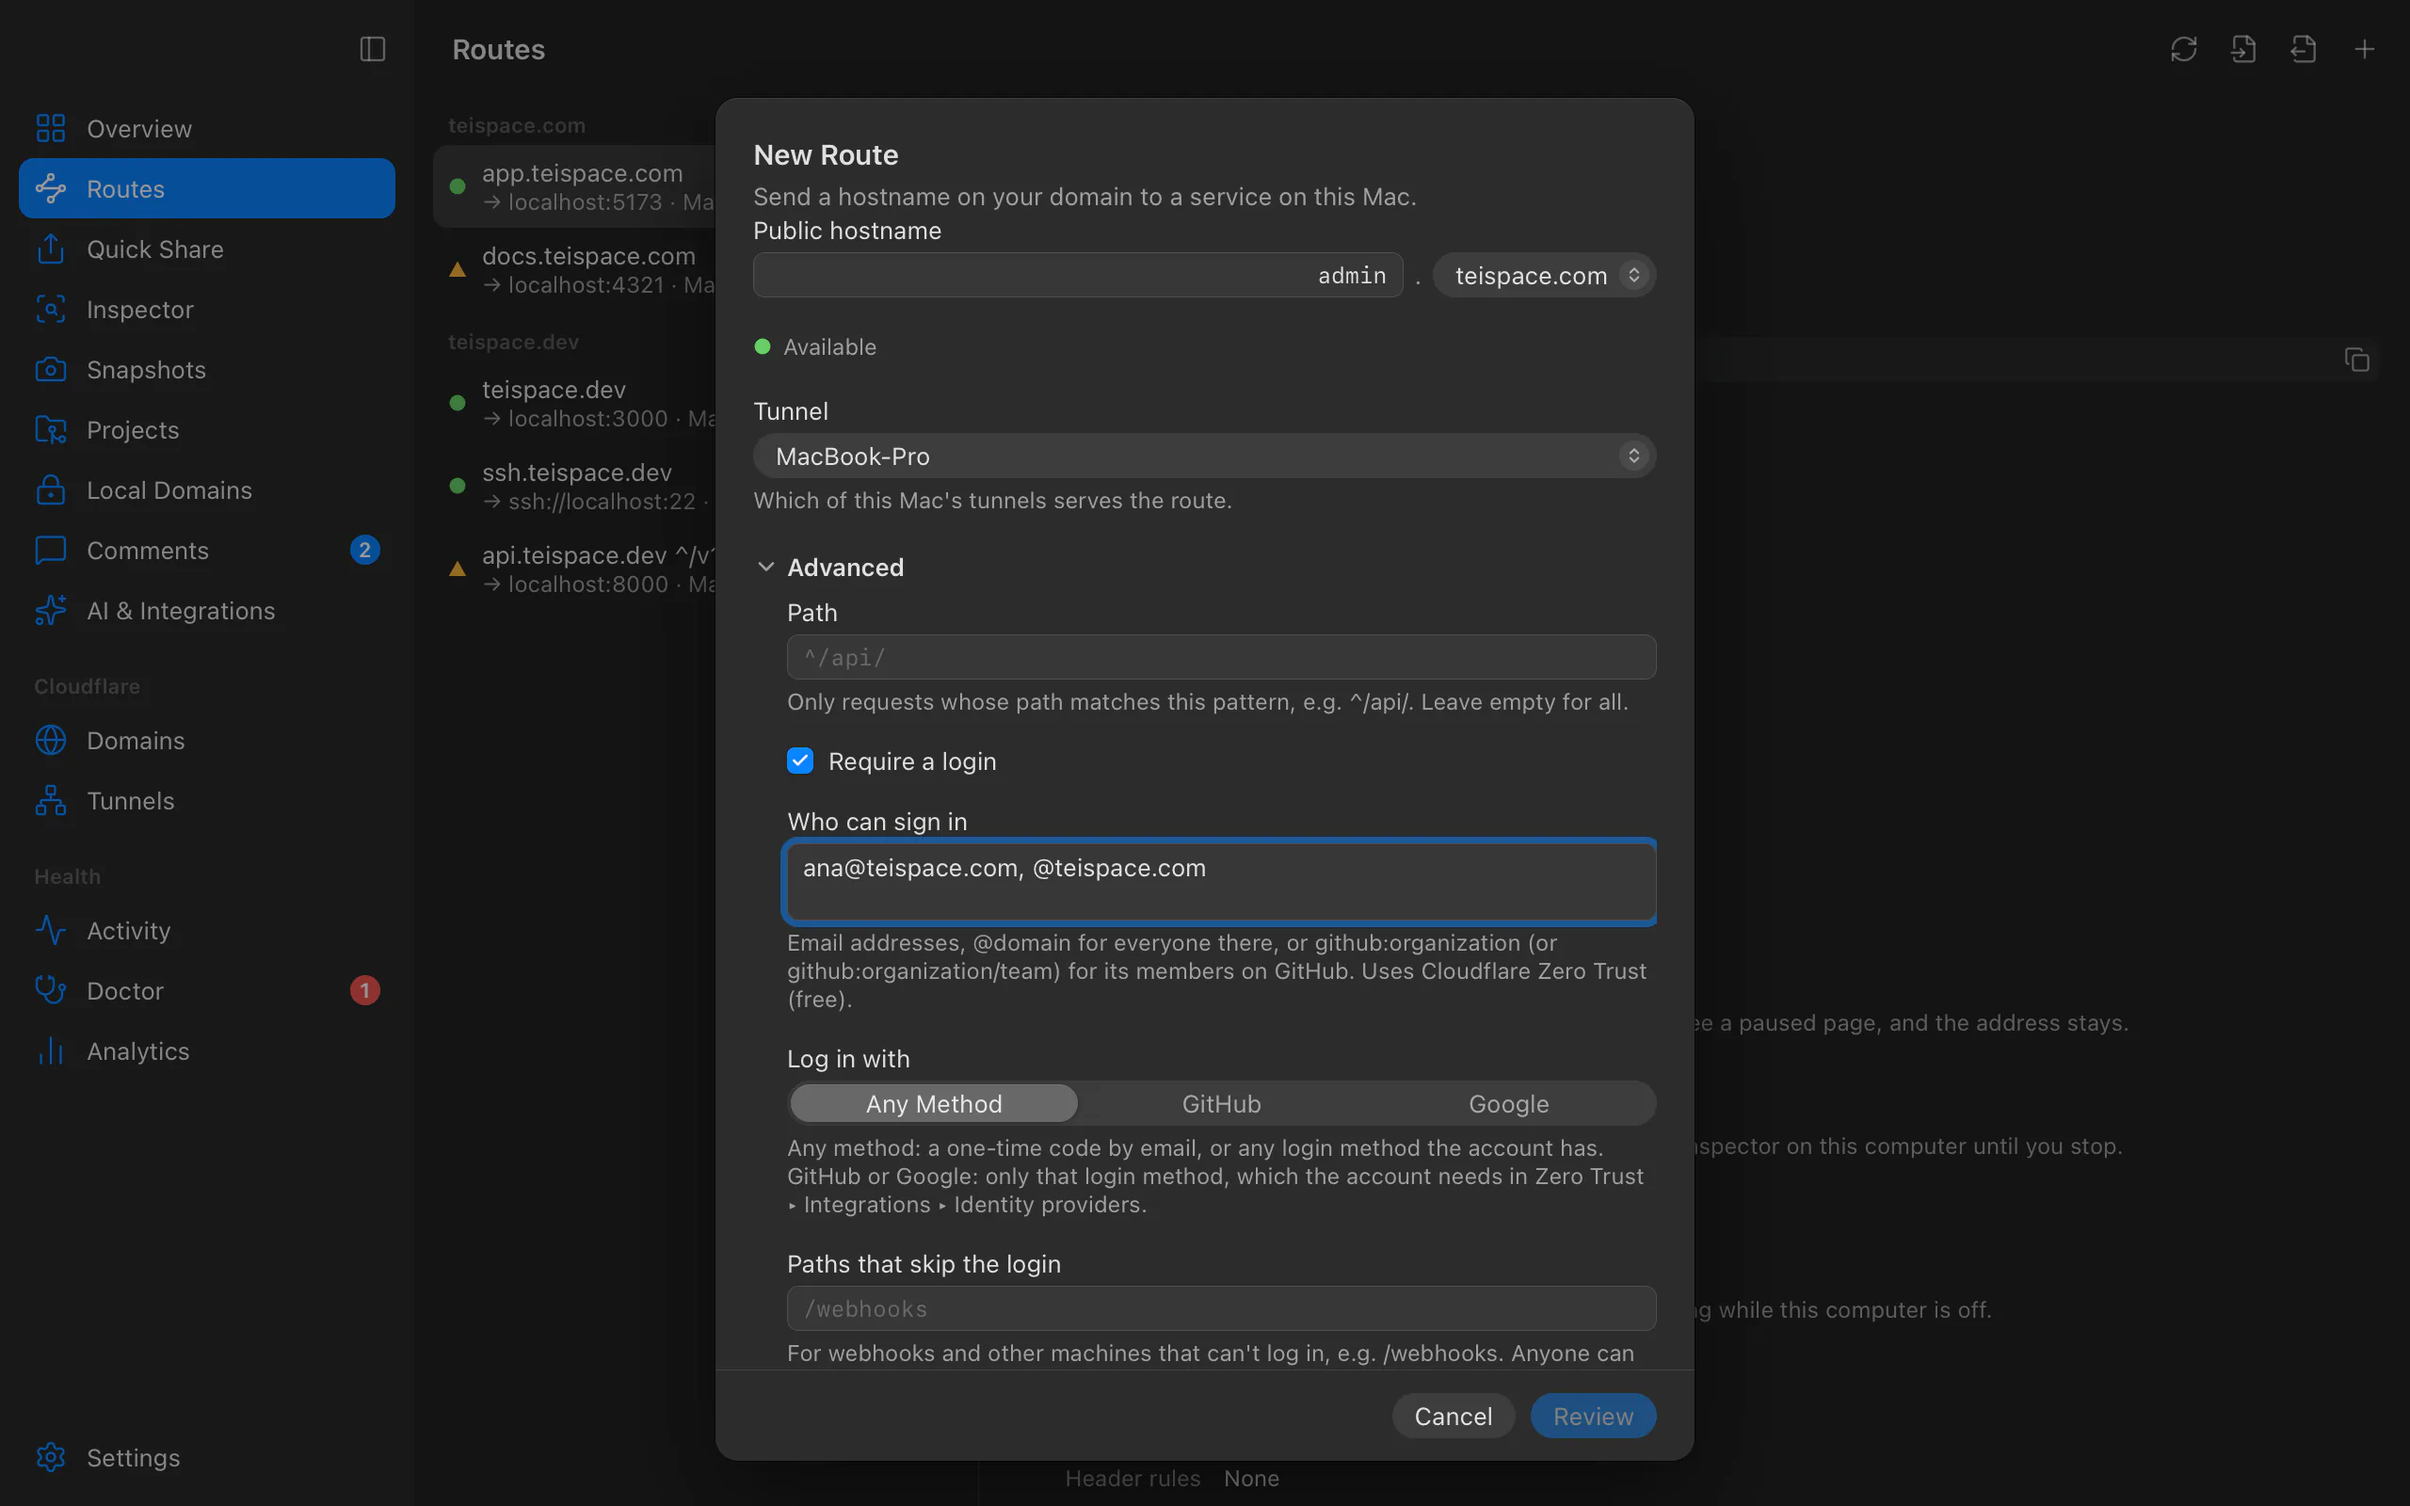
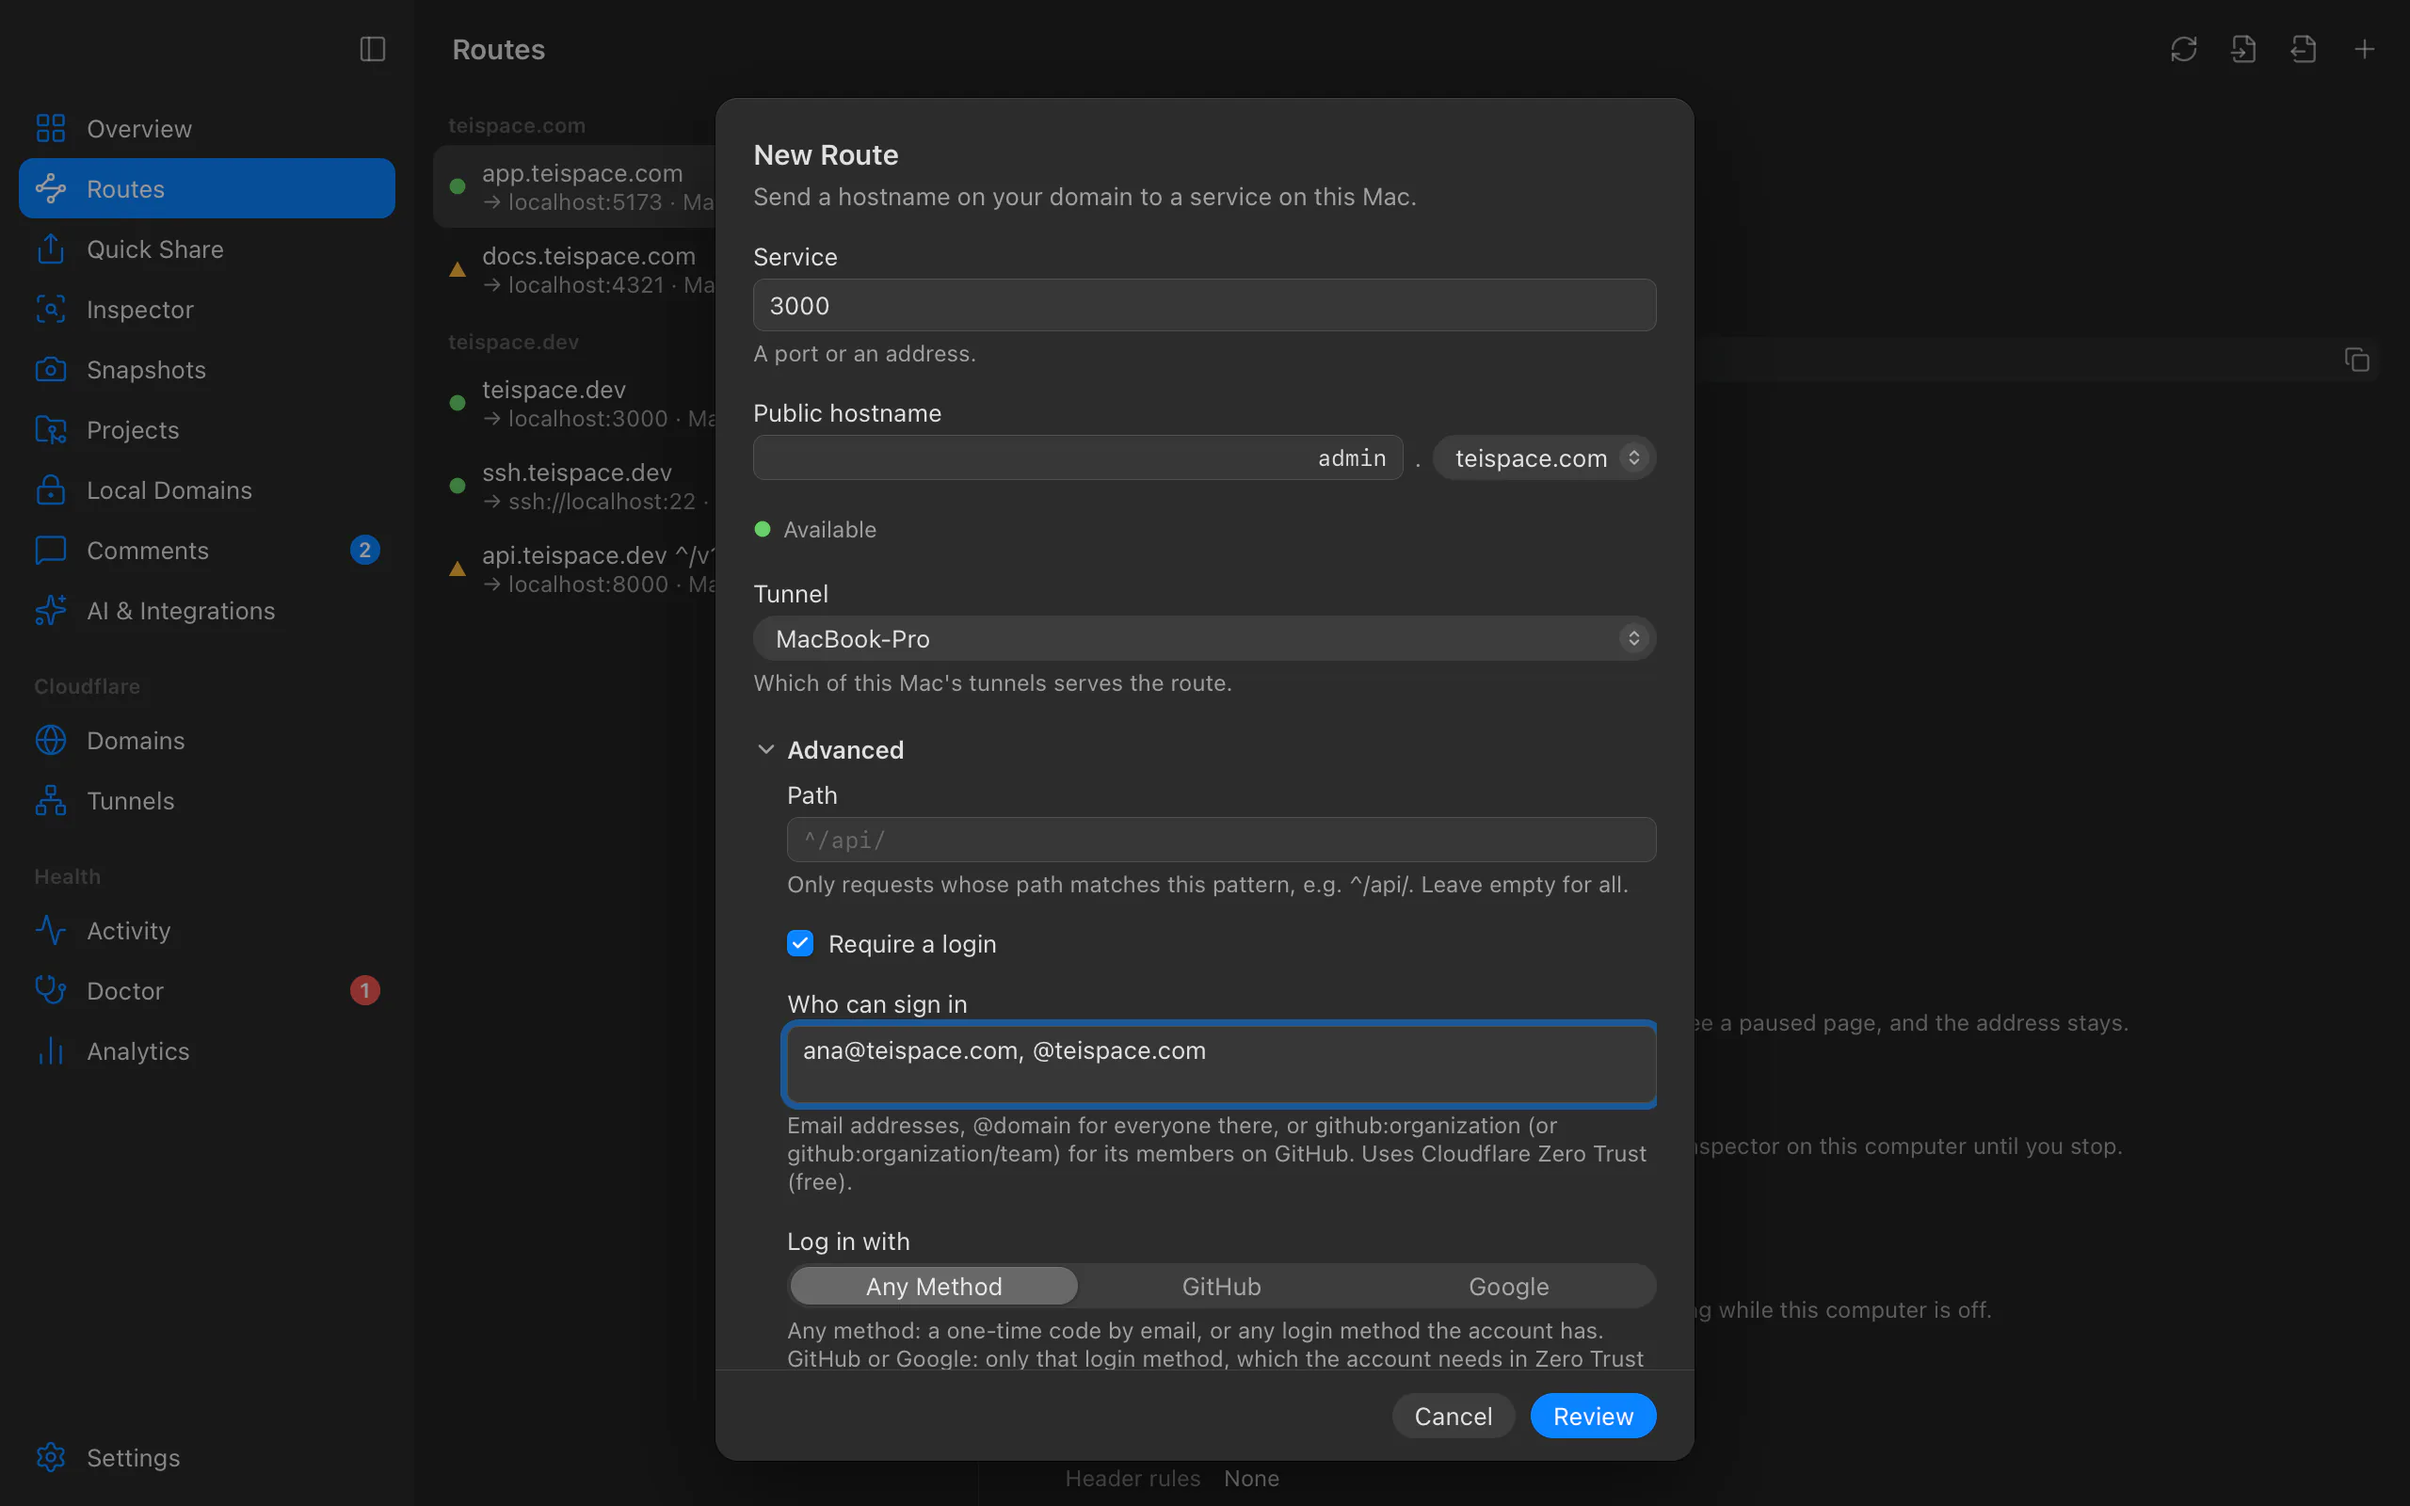
docs: the login screenshot shows Review ready
The dev mock's account can't manage Access, so the route sheet held Review
back. A ?access flag previews an account that can, and the route-login shot
uses it.

diff --git a/apps/desktop/src/dev/mock-ipc.ts b/apps/desktop/src/dev/mock-ipc.ts
@@ -857,7 +857,10 @@ export function installMockIpc(): void {
         case "accounts_list":
           return accounts;
         case "accounts_capabilities":
-          return capabilities;
+          // `?access` previews an account that can manage logins (Access).
+          return new URLSearchParams(window.location.search).has("access")
+            ? { ...capabilities, accessEdit: "yes" }
+            : capabilities;
         case "accounts_detect_cert":
           return true;
         case "domains_list":

diff --git a/apps/desktop/scripts/shoot-site.ts b/apps/desktop/scripts/shoot-site.ts
@@ -111,7 +111,8 @@ const shots: Shot[] = [
   },
   {
     name: "route-login",
-    route: "/routes?add=true",
+    // The mock's account can't manage Access, which would hold Review back.
+    route: "/routes?add=true&access",
     steps: [
       'fill:role=dialog >> input[placeholder^="Port"]=>3000',
       'fill:role=textbox[name="Subdomain"]=>admin',
